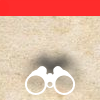
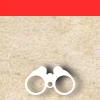
Fix shadow distance and add it to tests

Changed region(s): [[0.24, 0.51, 0.84, 0.99], [0.39, 0.81, 0.45, 0.87], [0.33, 0.75, 0.42, 0.81]]

diff --git a/text_test.go b/text_test.go
@@ -13,11 +13,12 @@ import (
 
 func TestTextDraw(t *testing.T) {
 	t.Run("text_draw_01", func(t *testing.T) {
-		testCanvas := gg.NewContext(100, 100)
+		sideSize := 300
+		testCanvas := gg.NewContext(sideSize, sideSize)
 
 		testCanvas.Push()
 		testCanvas.SetColor(color.White)
-		testCanvas.DrawRectangle(0, 0, float64(100), float64(100))
+		testCanvas.DrawRectangle(0, 0, float64(sideSize), float64(sideSize))
 		testCanvas.Fill()
 		testCanvas.Pop()
 
@@ -25,10 +26,10 @@ func TestTextDraw(t *testing.T) {
 			Settings: Settings{
 				FontPath:   "assets/freesans.ttf",
 				FontColor:  color.Black,
-				FontHeight: 15,
-				Width:      100,
-				Height:     100,
-				Margins:    5,
+				FontHeight: 30,
+				Width:      sideSize,
+				Height:     sideSize,
+				Margins:    3,
 			},
 			String: "11-Hello",
 		}
@@ -44,21 +45,36 @@ func TestTextDraw(t *testing.T) {
 		assert.NoError(t, err)
 
 		// Text is too long for the assigned space
-		testText.Settings.FontHeight = 10
+		testText.Settings.FontHeight = 25
 		testText.String = "7-Without Clipping"
 		err = testText.Draw(testCanvas, 7, testText.Settings)
 		assert.NoError(t, err)
 
 		// Ignore that text is too long
+		testText.FontColor = color.White
 		testText.Underline = false
 		testText.String = "16-With clipping"
 		testText.Settings.AvoidClipping = true
+		testText.Settings.StrokeWidth = 3
+		testText.StrokeColor = color.Black
 		err = testText.Draw(testCanvas, 16, testText.Settings)
 		assert.NoError(t, err)
 
+		// Shadow
+		testText.FontColor = color.Black
+		testText.Settings.AvoidClipping = false
+		testText.Settings.StrokeWidth = 0
+		testText.Settings.FontColor = color.Black
+		testText.ShadowDistance = 2
+		testText.ShadowSigma = 2
+		testText.String = "15-Sh"
+		err = testText.Draw(testCanvas, 15, testText.Settings)
+		assert.NoError(t, err)
+
 		// Background color for text is red and shadows
+		testText.Settings.AvoidClipping = true
 		testText.TextBackgroundColor = "red"
-		testText.FontHeight = 12
+		testText.FontHeight = 25
 		testText.Settings.FontColor = color.RGBA{255, 255, 255, 255}
 		testText.String = "14-Red bg"
 		err = testText.Draw(testCanvas, 14, testText.Settings)
@@ -66,7 +82,7 @@ func TestTextDraw(t *testing.T) {
 		byt := new(bytes.Buffer)
 		err = testCanvas.EncodePNG(byt)
 		assert.NoError(t, err)
-		assert.Equal(t, 4904, byt.Len(), "The image should have 4904 bytes but has %d bytes", byt.Len())
+		assert.Equal(t, 21089, byt.Len(), "The image should have 21089 bytes but has %d bytes", byt.Len())
 
 		// Compare the buffer with the expected image
 		expectedImage, err := os.Open("testdata/text_draw_01.png")
@@ -75,7 +91,8 @@ func TestTextDraw(t *testing.T) {
 
 		expectedBytes, err := io.ReadAll(expectedImage)
 		assert.NoError(t, err)
-		assert.Equal(t, 4904, len(expectedBytes), "The expected image (from the file, not the generated image) should have 4904 bytes but has %d bytes", byt.Len())
+		assert.Equal(t, 21089, len(expectedBytes), "The expected image (from the file, not the "+
+			"generated image) should have 21089 bytes but has %d bytes", byt.Len())
 
 		assert.Equal(t, expectedBytes, byt.Bytes())
 	})

diff --git a/text.go b/text.go
@@ -81,20 +81,16 @@ func (t *Text) Draw(dc *gg.Context, pos int, settings Settings) error {
 
 	img = CropToContent(img)
 
-	var y float64
-	x, y, ax, ay, err = t.getObjectPositions(pos, settings)
+	x, y, ax, ay, err := t.getObjectPositions(pos, settings)
 	if err != nil {
 		return errors.Wrap(err, "could not get a correct position")
 	}
+
 	if settings.ShadowDistance != 0 {
-		shadow := getShadowFromImage(img, t.ShadowDistance, SIGMA)
+		shadow := getShadowFromImage(img, t.ShadowDistance, t.ShadowSigma)
 		shadowCtx := gg.NewContextForImage(shadow)
-		shadowCtx.DrawImageAnchored(img, (shadowCtx.Width()/2)-t.ShadowDistance, (shadowCtx.Height()/2)-t.ShadowDistance, 0.5, 0.5)
-		y1 := int(y) - (shadowCtx.Height() / 2) + (img.Bounds().Dy() / 2)
-		//x1 := int(x)-(shadowCtx.Width()/2)+(img.Bounds().Dx()/2)
-		x1 := int(x)
-		dc.DrawImageAnchored(shadowCtx.Image(), x1, y1, ax, ay)
-		return nil
+		shadowCtx.DrawImageAnchored(img, (shadowCtx.Width() / 2), (shadowCtx.Height() / 2), 0.5, 0.5)
+		img = shadowCtx.Image()
 	}
 
 	if t.TextBackgroundColor != "" {
@@ -129,32 +125,6 @@ func (t *Text) getTextDimensions(pos int, def Settings) (float64, float64, float
 	}
 
 	return x, y, ax, ay, maxWidth, nil
-}
-
-// TODO remove if not used
-func drawTextWithStroke(t string, x, y, ax, ay float64, temp *gg.Context, textColor color.Color, strokeSize float64, strokeColor color.Color) {
-	temp.Push()
-	defer temp.Pop()
-
-	//Draw stroke
-	if strokeColor != nil {
-		temp.SetColor(strokeColor)
-		for dy := -strokeSize; dy <= strokeSize; dy++ {
-			for dx := -strokeSize; dx <= strokeSize; dx++ {
-				if dx*dx+dy*dy >= strokeSize*strokeSize {
-					// give it rounded corners
-					continue
-				}
-				x := x + dx
-				y := y + dy
-				temp.DrawStringAnchored(t, x, y, ax, ay)
-			}
-		}
-	}
-
-	//Draw text
-	temp.SetColor(textColor)
-	temp.DrawStringAnchored(t, x, y, ax, ay)
 }
 
 func drawTextWrappedWithStroke(t string, x, y, ax, ay, w float64, temp *gg.Context, textColor color.Color, strokeSize float64, strokeColor color.Color, align gg.Align) {

diff --git a/image_test.go b/image_test.go
@@ -41,7 +41,8 @@ func TestImageDraw(t *testing.T) {
 		// Test image scaling
 		testImage.Path = "assets/binoculars.png"
 		testImage.ImageScaling = IMAGE_SCALING_FIT_WIDTH
-		testImage.ShadowDistance = 3
+		testImage.ShadowDistance = 8
+		testImage.ShadowSigma = 3
 		testImage.Scale = 0.5
 		testImage.Margins = 5
 		err = testImage.Draw(testCanvas, 11, testImage.Settings)
@@ -58,7 +59,7 @@ func TestImageDraw(t *testing.T) {
 		byt := new(bytes.Buffer)
 		err = testCanvas.EncodePNG(byt)
 		assert.NoError(t, err)
-		assert.Equal(t, 13339, byt.Len(), "The image should have 4904 bytes but has %d bytes", byt.Len())
+		assert.Equal(t, 13552, byt.Len(), "The image should have 13552 bytes but has %d bytes", byt.Len())
 
 		// Compare the buffer with the expected image
 		expectedImage, err := os.Open("testdata/image_draw_01.png")
@@ -67,7 +68,7 @@ func TestImageDraw(t *testing.T) {
 
 		expectedBytes, err := io.ReadAll(expectedImage)
 		assert.NoError(t, err)
-		assert.Equal(t, 13339, len(expectedBytes), "The expected image (from the file, not the generated image) should have 4904 bytes but has %d bytes", byt.Len())
+		assert.Equal(t, 13552, len(expectedBytes), "The expected image (from the file, not the generated image) should have 13552 bytes but has %d bytes", byt.Len())
 
 		assert.Equal(t, expectedBytes, byt.Bytes())
 	})

diff --git a/image.go b/image.go
@@ -60,7 +60,7 @@ func (i *Image) Draw(dc *gg.Context, pos int, _ Settings) error {
 		return err
 	}
 	if i.ShadowDistance != 0 {
-		shadow := getShadowFromImage(img, i.ShadowDistance, SIGMA)
+		shadow := getShadowFromImage(img, i.ShadowDistance, i.ShadowSigma)
 		x1 := math.Floor(x + float64(i.ShadowDistance))
 		y1 := math.Floor(y + float64(i.ShadowDistance))
 		dc.DrawImageAnchored(shadow, int(x1), int(y1), ax, ay)

diff --git a/settings.go b/settings.go
@@ -22,6 +22,7 @@ type Settings struct {
 	BgColor         color.Color `json:"-"`
 
 	ShadowDistance int `json:"shadow,omitempty" default:"0"`
+	ShadowSigma    int `json:"shadow_sigma,omitempty" default:"5"`
 
 	Rotation float64 `json:"rotation,omitempty"`
 

diff --git a/const.go b/const.go
@@ -39,8 +39,6 @@ const (
 	ALIGMENT_RIGHT  = "right"
 	ALIGMENT_CENTER = "center"
 
-	SIGMA = 5
-
 	BASE_FOLDER = "TemplateModule"
 
 	STRIPE              = "assets/stripe.png"
